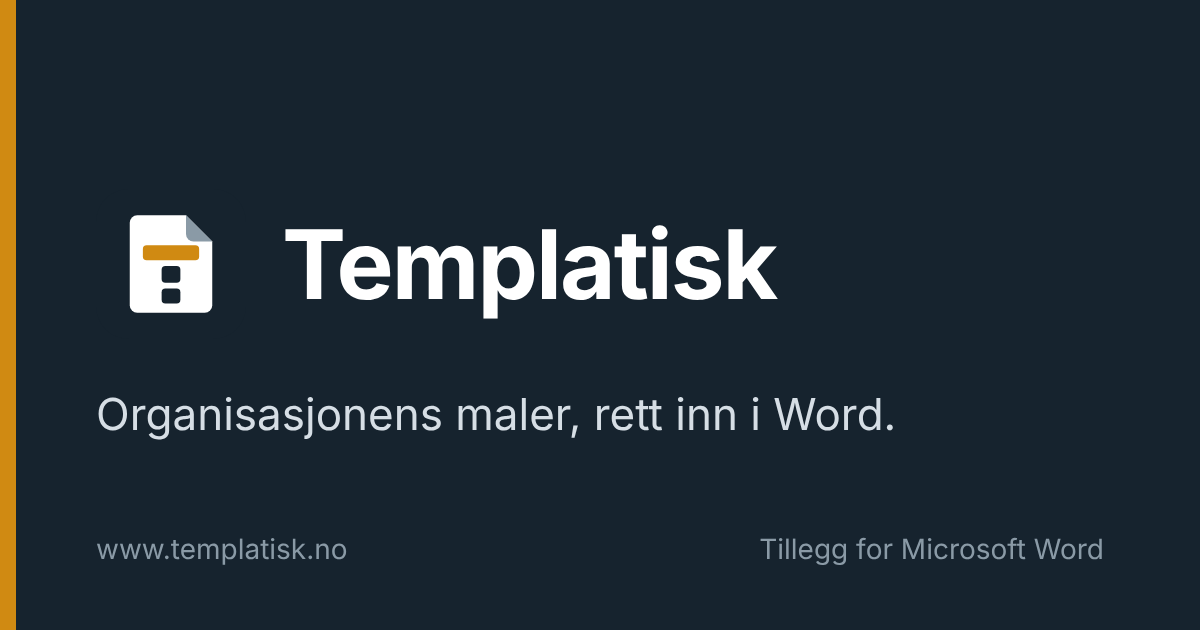
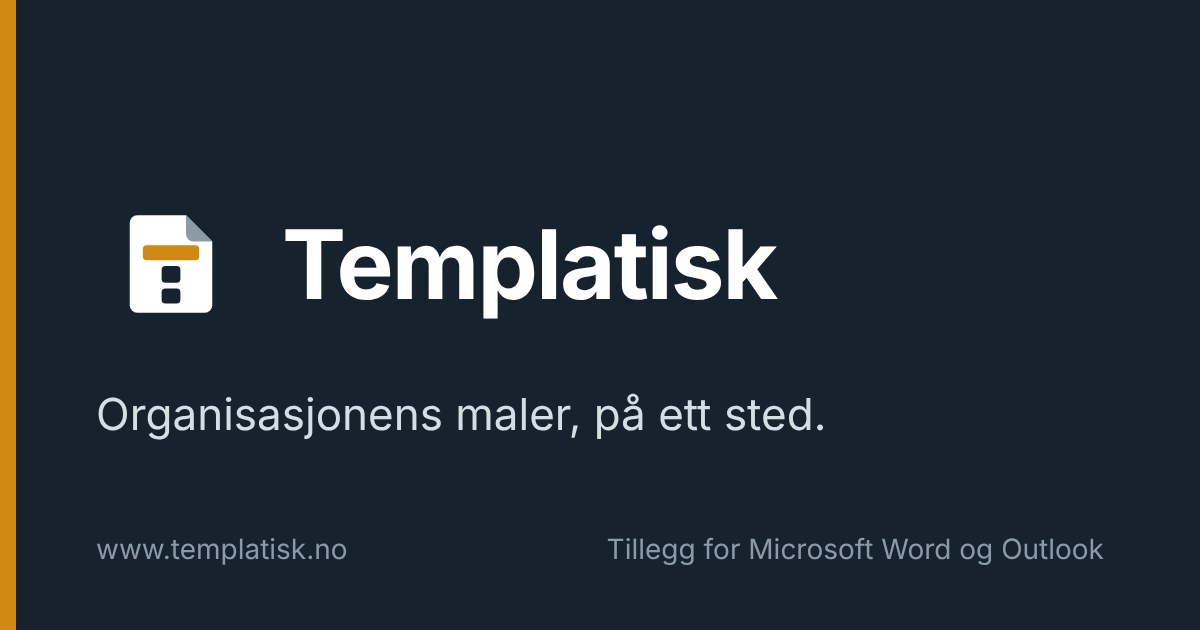
Change the headline to Organisasjonens maler, på ett sted
The page title and link preview now mention Outlook as well as Word.

Claude-Session: https://claude.ai/code/session_013YrBe81ETiDzjW5SCP9mda

Changed region(s): [[0.4933, 0.8444, 0.925, 0.9048], [0.4933, 0.6333, 0.74, 0.6937]]

diff --git a/index.html b/index.html
@@ -3,16 +3,16 @@
 <head>
   <meta charset="UTF-8" />
   <meta name="viewport" content="width=device-width, initial-scale=1" />
-  <title>Templatisk, maler rett inn i Word</title>
+  <title>Templatisk, maler rett inn i Word og Outlook</title>
   <meta name="description" content="Templatisk lar organisasjonen lage gjenbrukbare maler i nettleseren og sette dem inn i Word og Outlook med ett klikk." />
   <meta property="og:type" content="website" />
   <meta property="og:url" content="https://www.templatisk.no/" />
-  <meta property="og:title" content="Templatisk, maler rett inn i Word" />
+  <meta property="og:title" content="Templatisk, maler rett inn i Word og Outlook" />
   <meta property="og:description" content="Templatisk lar organisasjonen lage gjenbrukbare maler i nettleseren og sette dem inn i Word og Outlook med ett klikk." />
   <meta property="og:image" content="https://www.templatisk.no/og-image.png" />
   <meta property="og:image:width" content="1200" />
   <meta property="og:image:height" content="630" />
-  <meta property="og:image:alt" content="Templatisk: Organisasjonens maler, rett inn i Word." />
+  <meta property="og:image:alt" content="Templatisk: Organisasjonens maler, på ett sted. Tillegg for Microsoft Word og Outlook." />
   <meta property="og:locale" content="nb_NO" />
   <meta name="twitter:card" content="summary_large_image" />
   <link rel="icon" href="favicon.svg" type="image/svg+xml" />
@@ -184,7 +184,7 @@
     <main>
       <div class="hero">
         <div>
-          <h1>Organisasjonens maler, rett inn i Word.</h1>
+          <h1>Organisasjonens maler, på ett sted.</h1>
           <p class="lead">Templatisk lar dere lage gjenbrukbare dokumentmaler i nettleseren. Saksbehandlerne finner dem i Word og Outlook, fyller ut noen felt og setter inn ferdig tekst med ett klikk. Templatisk fungerer uavhengig av arkivsystem, så lenge dokumentene skrives i Word.</p>
           <a class="btn" href="#kontakt">Ta kontakt</a>
           <a class="btn ghost" href="#slik">Se hvordan</a>
